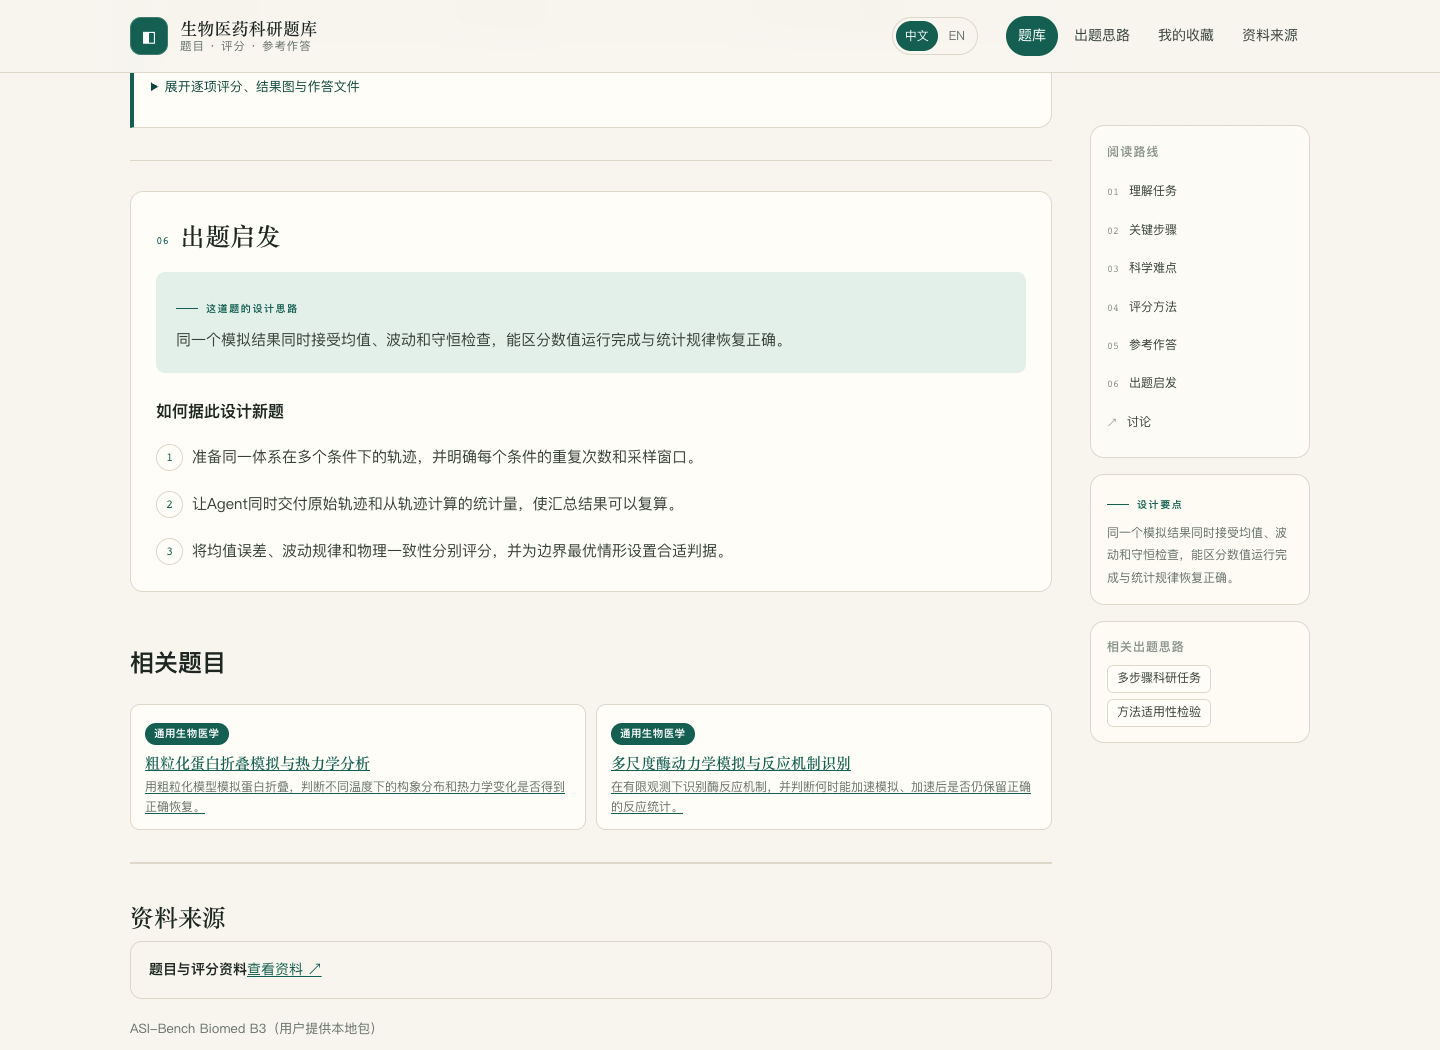
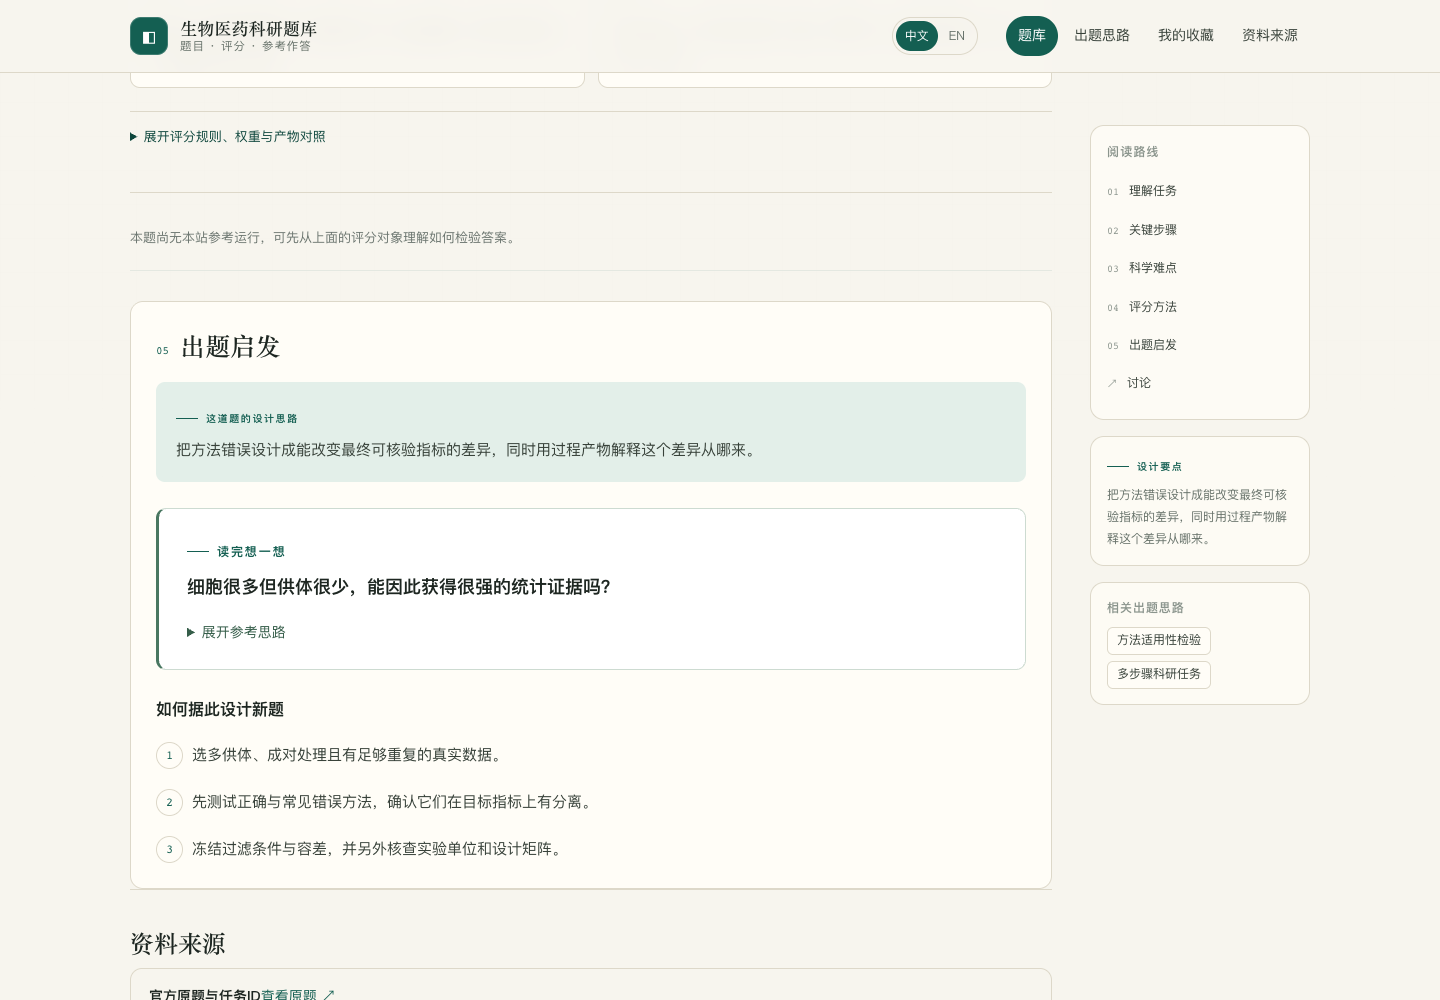
Show bilingual prompt translations and refreshed scientific task guides

diff --git a/README.en.md b/README.en.md
@@ -6,7 +6,7 @@
 
 BioTask Lens collects public AI agent benchmark tasks for biomedicine, drug discovery, and bioinformatics. Each task connects the scientific question, inputs and outputs, key judgments, evaluation methods, and reference responses. It helps researchers understand how biomedical agent benchmarks are constructed and develop ideas for new evaluations.
 
-**[Visit BioTask Lens →](https://biotask-lens.biotask-lens-app.workers.dev/#/tasks?lang=en)** · [中文网站](https://biotask-lens.biotask-lens-app.workers.dev/)
+**[Visit BioTask Lens →](https://biotask-lens.biotask-lens-app.workers.dev/en/)** · [中文网站](https://biotask-lens.biotask-lens-app.workers.dev/)
 
 Use this repository to recommend tasks, share ideas, and suggest corrections.
 
@@ -15,7 +15,7 @@ Use this repository to recommend tasks, share ideas, and suggest corrections.
 ## What you can learn
 
 - **Understand the task:** the research question, available materials, and required outputs.
-- **Understand the challenge:** a concrete scenario explaining the scientific judgment and its consequences.
+- **Understand the challenge:** a tempting approach, its failure mode, and a stronger scientific approach.
 - **Understand evaluation:** what is compared and where a reference response earns or loses credit.
 - **Borrow the design:** data preparation, checkable deliverables, and meaningful assessment criteria.
 
@@ -25,7 +25,7 @@ The focus is individual task design and analysis. Reference agent runs illustrat
 
 Added 23 tasks from [SciWorkBench](https://github.com/SKYEVAL-AIHub/SciWorkBench), [TxBench Antibody Development](https://github.com/latchbio/txBench-antibody-development), [TxBench Antibody Discovery](https://github.com/latchbio/txbench-antibody-discovery), [scBench](https://github.com/latchbio/scbench), and [SpatialBench](https://github.com/latchbio/spatialbench). Topics include neurite tracing, RNA mechanisms, imaging audits, structure elucidation, antibody decisions, and single-cell and spatial analysis.
 
-Each includes bilingual explanations, the original prompt, assessment details, and design takeaways. Start with [neurite tracing](https://biotask-lens.biotask-lens-app.workers.dev/#/task/swb-neurite-tracing?lang=en) or [donor-aware differential expression](https://biotask-lens.biotask-lens-app.workers.dev/#/task/scbench-pseudobulk-differential-expression?lang=en).
+All 44 tasks provide switchable, downloadable English originals and full Chinese translations. Each also includes bilingual explanations, evaluation details, an approach comparison, and a thinking question with expandable reasoning. Start with [neurite tracing](https://biotask-lens.biotask-lens-app.workers.dev/en/tasks/swb-neurite-tracing/) or [donor-aware differential expression](https://biotask-lens.biotask-lens-app.workers.dev/en/tasks/scbench-pseudobulk-differential-expression/).
 
 ## Example tasks
 
